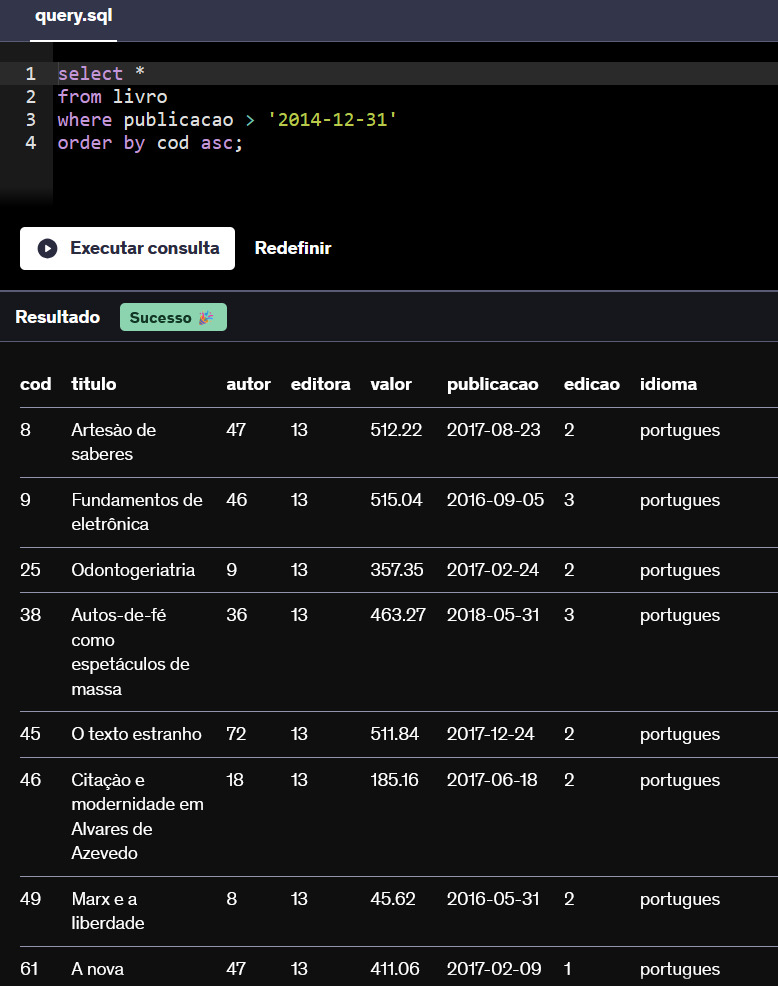
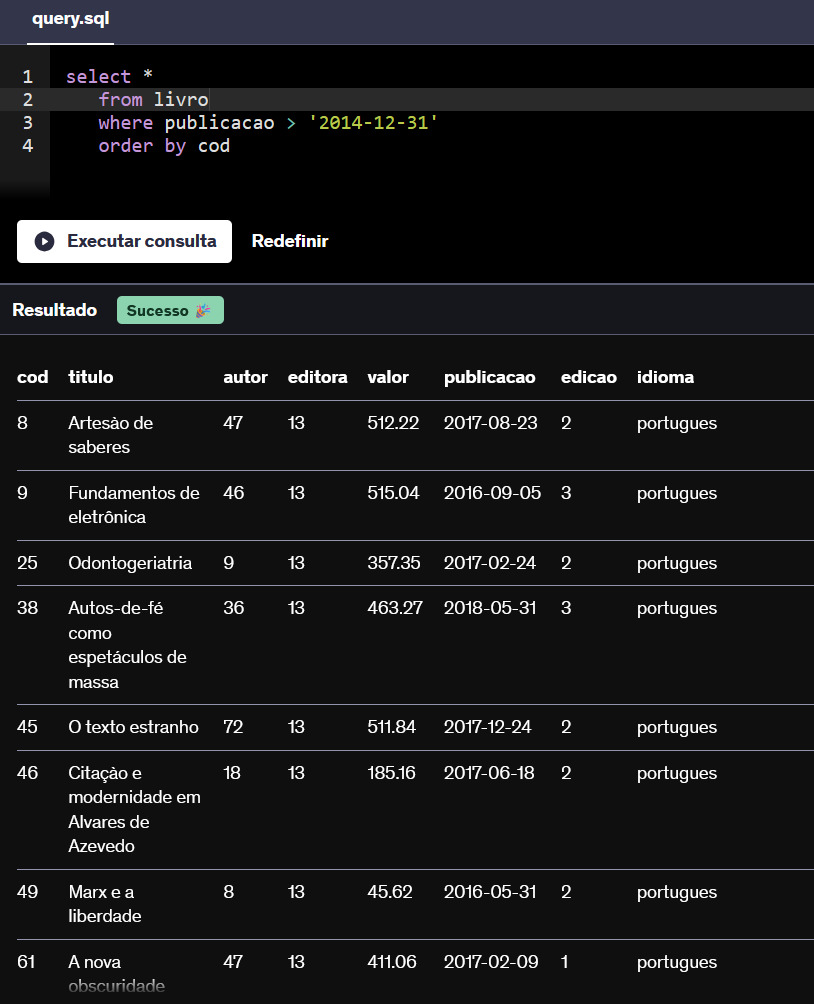
Fim dos exercícios da seção 3, faltando apenas alterar os links dasevidências.

diff --git a/Exercicios-secao-3/README.md b/Exercicios-secao-3/README.md
@@ -1,9 +1,9 @@
 **E01.** Apresente a query para listar todos os livros publicados após 2014. Ordenar pela coluna cod, em ordem crescente, as linhas. Atenção às colunas esperadas no resultado final: cod, titulo, autor, editora, valor, publicacao, edicao, idioma.
 
-    select
+    select *
     from livro
     where publicacao > '2014-12-31'
-    order by cod asc;
+    order by cod
 
 - [Link para evidência](https://github.com/aline-hoffmann/scholarship-compass/blob/main/Evidencias-exercicios/ex1.jpg)
 
@@ -69,3 +69,32 @@ Dica para ordenação: Utilize Replace.
 - [Link para evidência](https://github.com/aline-hoffmann/scholarship-compass/blob/main/Evidencias-exercicios/ex5.jpg)
 
 <br>
+
+**E06.** Apresente a query para listar o autor com maior número de livros publicados. O resultado deve conter apenas as colunas codautor, nome, quantidade_publicacoes.
+
+    select
+        autor.codautor,
+        autor.nome,
+        count(livro.cod) as quantidade_publicacoes
+    from autor
+    left join livro on autor.codautor = livro.autor
+    group by autor.codautor, autor.nome
+    order by quantidade_publicacoes desc
+    limit 1
+
+- [Link para evidência](https://github.com/aline-hoffmann/scholarship-compass/blob/main/Evidencias-exercicios/ex5.jpg)
+
+<br>
+
+**E07.** Apresente a query para listar o nome dos autores com nenhuma publicação. Apresentá-los em ordem crescente.
+
+    select autor.nome
+    from autor
+    left join livro on autor.codautor = livro.autor
+    where livro.cod is null
+    order by autor.nome
+
+- [Link para evidência](https://github.com/aline-hoffmann/scholarship-compass/blob/main/Evidencias-exercicios/ex5.jpg)
+
+<br>
+
